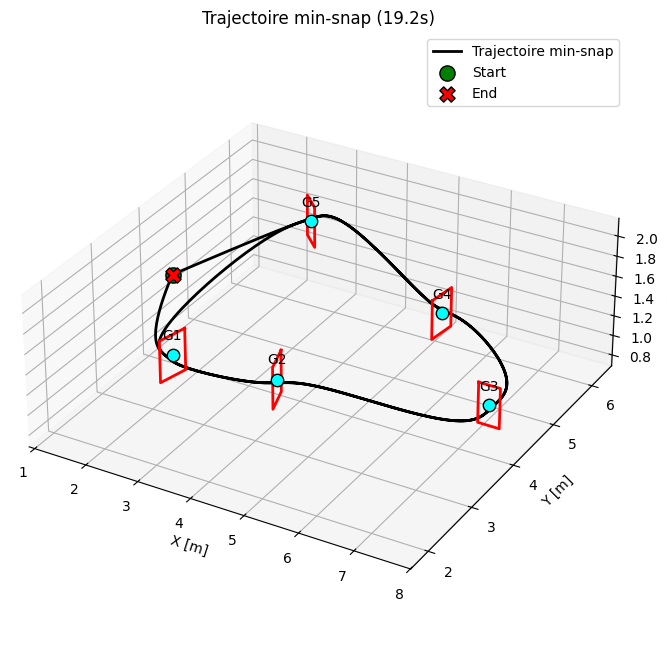
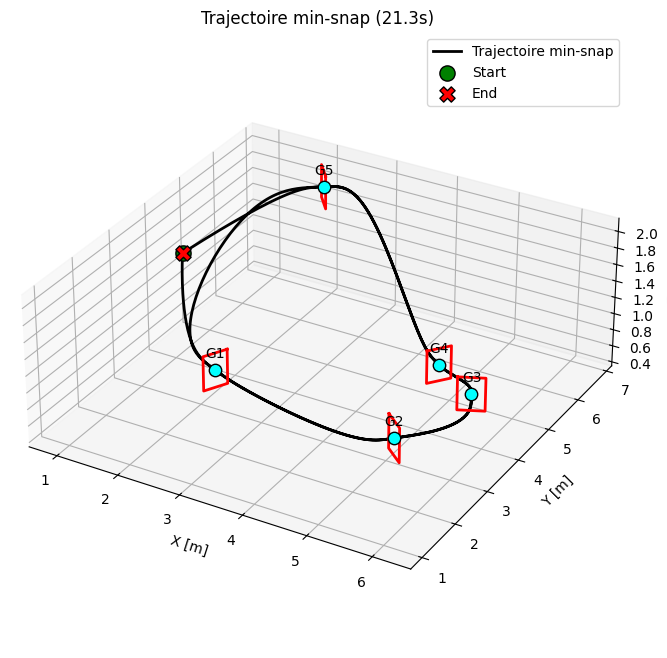
robust to go to lap2

diff --git a/controllers/main/assignment/my_assignment.py b/controllers/main/assignment/my_assignment.py
@@ -967,7 +967,14 @@ class MyAssignment:
                 dx_h = home[0] - pos[0]
                 dy_h = home[1] - pos[1]
                 dist_home = np.linalg.norm([dx_h, dy_h])
-                if dist_home < 0.4:
+                # Timeout : si on n'atteint pas le home en 10s, forcer le démarrage
+                # depuis la position courante. Evite de rester bloqué indéfiniment.
+                if not hasattr(self, '_lap2_home_timeout'):
+                    self._lap2_home_timeout = 0
+                self._lap2_home_timeout += 1
+                if dist_home < 0.4 or self._lap2_home_timeout > 500:
+                    if self._lap2_home_timeout > 500:
+                        print(f"[LAP2] Timeout retour home ({dist_home:.2f}m) → démarrage forcé")
                     self.lap2_started = True
                     print("[LAP2] Pad de décollage atteint → calcul trajectoire")
                 else:
@@ -992,6 +999,13 @@ class MyAssignment:
                                                # → traversée lente et précise
                 )
                 self.traj_start_time = sensor_data.get('t', 0.0)
+                print(f"[LAP2] Trajectoire calculée : {self.trajectory['total_time']:.1f}s, "
+                      f"{len(self.trajectory['polys'])} segments")
+                print(f"[LAP2] Gates utilisés : {[list(np.round(g[:2],2)) for g in self.gate_positions]}")
+                # Sécurité : si la trajectoire est dégénérée (trop courte),
+                # c'est que les positions de gates sont aberrantes.
+                if self.trajectory['total_time'] < 5.0:
+                    print("[LAP2] AVERTISSEMENT : trajectoire très courte, gates peut-être mal estimés")
                 # Plot de la trajectoire (une seule fois)
                 self._plot_trajectory(self.trajectory, self.gate_positions,
                                       waypoints, start_pos, end_pos,
